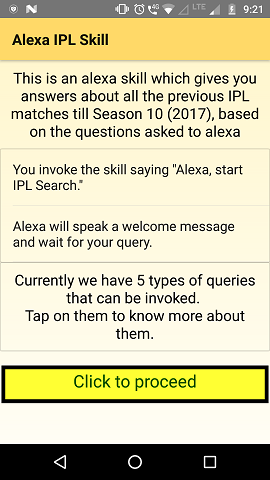
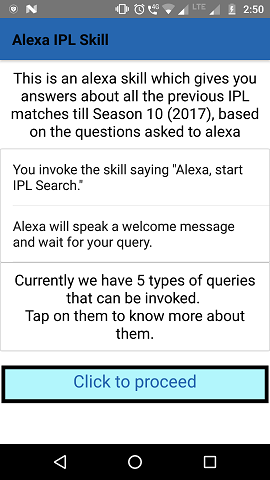
changed ui and some content

diff --git a/src/Components/Intents.js b/src/Components/Intents.js
@@ -8,10 +8,14 @@ import LinearGradient from 'react-native-linear-gradient';
 export default class Home extends Component {
     render() {
         return (
-            <LinearGradient colors={['#fff6ce', '#fffdf4']} style={{ flex: 1 }}>
+            <LinearGradient colors={['#fff', '#BAF6FB']} style={{ flex: 1 }}>
             <ScrollView>
                 <View style={styles.card}>
                     <List>
+                        <ListItem button style={styles.listItem} onPress={() => { Actions.Welcome(); }}>
+                            <Text style={styles.text}>Welcome</Text>
+                            <Icon name="ios-arrow-forward-outline" />
+                        </ListItem>
                         <ListItem button style={styles.listItem} onPress={() => { Actions.aboutIPL(); }}>
                             <Text style={styles.text}>About IPL</Text>
                             <Icon name="ios-arrow-forward-outline" />
@@ -20,16 +24,12 @@ export default class Home extends Component {
                             <Text style={styles.text}>Total Matches</Text>
                             <Icon name="ios-arrow-forward-outline" />
                         </ListItem>
-                        <ListItem button style={styles.listItem} onPress={() => { Actions.manOfMatch(); }}>
-                            <Text style={styles.text}>Man of the Match</Text>
+                        <ListItem button style={styles.listItem} onPress={() => { Actions.SeasonWinner(); }}>
+                            <Text style={styles.text}>Season Winner</Text>
                             <Icon name="ios-arrow-forward-outline" />
                         </ListItem>
-                        <ListItem button style={styles.listItem} onPress={() => { Actions.matchResult(); }}>
-                            <Text style={styles.text}>Match Result</Text>
-                            <Icon name="ios-arrow-forward-outline" />
-                        </ListItem>
-                        <ListItem button style={styles.listItem} onPress={() => { Actions.matchSummary(); }}>
-                            <Text style={styles.text}>Match Summary</Text>
+                        <ListItem button style={styles.listItem} onPress={() => { Actions.Exit(); }}>
+                            <Text style={styles.text}>Exit</Text>
                             <Icon name="ios-arrow-forward-outline" />
                         </ListItem>
                     </List>

diff --git a/src/Components/Exit.js b/src/Components/Exit.js
@@ -3,25 +3,31 @@ import { Text, View, ScrollView } from 'react-native';
 import { List, ListItem } from 'native-base';
 import LinearGradient from 'react-native-linear-gradient';
 
-export default class TotalMatches extends Component {
+export default class SeasonWinner extends Component {
     render() {
         return (
             <LinearGradient colors={['#fff', '#BAF6FB']} style={{ flex: 1 }}>
             <ScrollView>
                 <Text style={[styles.title]}>
-                    Alexa will give a count of the total number of matches played in the IPL until the 2017 season.
+                    Alexa will say a goodbye message and exit
                 </Text>
                 <View style={styles.card}>
                     <Text style={styles.title}>Sample invocation :- </Text>
                     <List>
                         <ListItem>
-                            <Text style={styles.text}>What is the total number of matches played ever in IPL"</Text>
+                            <Text style={styles.text}>bye</Text>
                         </ListItem>
                         <ListItem>
-                            <Text style={styles.text}>What is the total number of matches played ever in Indian Premier League</Text>
+                            <Text style={styles.text}>goodbye</Text>
                         </ListItem>
                         <ListItem>
-                            <Text style={styles.text}>How many matches played by teams in IPL</Text>
+                            <Text style={styles.text}>thanks</Text>
+                        </ListItem>
+                        <ListItem>
+                            <Text style={styles.text}>close alexa ipl skill</Text>
+                        </ListItem>
+                        <ListItem>
+                            <Text style={styles.text}>shutdown</Text>
                         </ListItem>
                     </List>
 

diff --git a/src/Components/SeasonWinner.js b/src/Components/SeasonWinner.js
@@ -3,25 +3,28 @@ import { Text, View, ScrollView } from 'react-native';
 import { List, ListItem } from 'native-base';
 import LinearGradient from 'react-native-linear-gradient';
 
-export default class TotalMatches extends Component {
+export default class Welcome extends Component {
     render() {
         return (
             <LinearGradient colors={['#fff', '#BAF6FB']} style={{ flex: 1 }}>
             <ScrollView>
                 <Text style={[styles.title]}>
-                    Alexa will give a count of the total number of matches played in the IPL until the 2017 season.
+                    Alexa will tell you the winner on the season you specify.
                 </Text>
                 <View style={styles.card}>
                     <Text style={styles.title}>Sample invocation :- </Text>
                     <List>
                         <ListItem>
-                            <Text style={styles.text}>What is the total number of matches played ever in IPL"</Text>
+                            <Text style={styles.text}>Who won IPL season 2017</Text>
                         </ListItem>
                         <ListItem>
-                            <Text style={styles.text}>What is the total number of matches played ever in Indian Premier League</Text>
+                            <Text style={styles.text}>Who was the winner of IPL season 2014</Text>
                         </ListItem>
                         <ListItem>
-                            <Text style={styles.text}>How many matches played by teams in IPL</Text>
+                            <Text style={styles.text}>Which team was crowned the winner in ipl season 2012</Text>
+                        </ListItem>
+                        <ListItem>
+                            <Text style={styles.text}>Which team lifted the trophy in ipl season 2013</Text>
                         </ListItem>
                     </List>
 

diff --git a/src/Router.js b/src/Router.js
@@ -3,23 +3,23 @@ import { Router, Scene } from 'react-native-router-flux';
 import Home from './Home';
 import TotalMatches from './Components/TotalMatches';
 import AboutIPL from './Components/AboutIPL';
-import MatchResult from './Components/MatchResult';
-import MatchSummary from './Components/MatchSummary';
-import ManOfMatch from './Components/ManOfMatch';
+import SeasonWinner from './Components/SeasonWinner';
+import Exit from './Components/Exit';
+import Welcome from './Components/Welcome';
 import Intents from './Components/Intents';
 
 const RouterComponent = () => {
     return (
       <Router>
         <Scene key="root" hideNavBar>
-            <Scene key="main" navigationBarStyle={{ backgroundColor: '#ffd968'}} backButtonTintColor='white' >
+            <Scene key="main" navigationBarStyle={{ backgroundColor: '#2666AF'}} backButtonTintColor='white' >
                 <Scene key="Home" component={Home} title="Alexa IPL Skill" initial />
                 <Scene key="intents" component={Intents} title="Intents" />
+                <Scene key="Welcome" component={Welcome} title="Welcome message" />
                 <Scene key="aboutIPL" component={AboutIPL} title="About IPL" />
                 <Scene key="totalMatches" component={TotalMatches} title="Total Matches" />
-                <Scene key="matchResult" component={MatchResult} title="Match Result" />
-                <Scene key="matchSummary" component={MatchSummary} title="Match Summary" />
-                <Scene key="manOfMatch" component={ManOfMatch} title="Man of the match" />
+                <Scene key="SeasonWinner" component={SeasonWinner} title="Season Winner" />
+                <Scene key="Exit" component={Exit} title="Exit message" />
             </Scene>
 
         </Scene>

diff --git a/src/Components/Welcome.js b/src/Components/Welcome.js
@@ -3,25 +3,25 @@ import { Text, View, ScrollView } from 'react-native';
 import { List, ListItem } from 'native-base';
 import LinearGradient from 'react-native-linear-gradient';
 
-export default class TotalMatches extends Component {
+export default class Exit extends Component {
     render() {
         return (
             <LinearGradient colors={['#fff', '#BAF6FB']} style={{ flex: 1 }}>
             <ScrollView>
                 <Text style={[styles.title]}>
-                    Alexa will give a count of the total number of matches played in the IPL until the 2017 season.
+                    Alexa will greet you with a welcome message.
                 </Text>
                 <View style={styles.card}>
                     <Text style={styles.title}>Sample invocation :- </Text>
                     <List>
                         <ListItem>
-                            <Text style={styles.text}>What is the total number of matches played ever in IPL"</Text>
+                            <Text style={styles.text}>Hi</Text>
                         </ListItem>
                         <ListItem>
-                            <Text style={styles.text}>What is the total number of matches played ever in Indian Premier League</Text>
+                            <Text style={styles.text}>Hello</Text>
                         </ListItem>
                         <ListItem>
-                            <Text style={styles.text}>How many matches played by teams in IPL</Text>
+                            <Text style={styles.text}>Say hello</Text>
                         </ListItem>
                     </List>
 

diff --git a/src/Components/AboutIPL.js b/src/Components/AboutIPL.js
@@ -6,7 +6,7 @@ import LinearGradient from 'react-native-linear-gradient';
 export default class AboutIPL extends Component {
     render() {
         return (
-            <LinearGradient colors={['#fff6ce', '#fffdf4']} style={{ flex: 1 }}>
+            <LinearGradient colors={['#fff', '#BAF6FB']} style={{ flex: 1 }}>
             <ScrollView>
                 <Text style={[styles.title]}>
                     Alexa will give a brief description about IPL.
@@ -15,13 +15,16 @@ export default class AboutIPL extends Component {
                     <Text style={styles.title}>Sample invocation :- </Text>
                     <List>
                         <ListItem>
-                            <Text style={styles.text}>Alexa, start ipl search, What is Indian Premier League"</Text>
+                            <Text style={styles.text}>What is Indian Premier League</Text>
                         </ListItem>
                         <ListItem>
-                            <Text style={styles.text}>Alexa, start ipl search, What is IPL</Text>
+                            <Text style={styles.text}>What is IPL</Text>
                         </ListItem>
                         <ListItem>
-                            <Text style={styles.text}>Alexa, start ipl search, What this skill is about</Text>
+                            <Text style={styles.text}>What is IPL about</Text>
+                        </ListItem>
+                        <ListItem>
+                            <Text style={styles.text}>What this skill is about</Text>
                         </ListItem>
                     </List>
 

diff --git a/src/Home.js b/src/Home.js
@@ -8,7 +8,7 @@ import LinearGradient from 'react-native-linear-gradient';
 export default class Home extends Component {
     render() {
         return (
-            <LinearGradient colors={['#fff6ce', '#fffdf4']} style={{ flex: 1 }}>
+            <LinearGradient colors={['#fff', '#fff']} style={{ flex: 1 }}>
             <ScrollView>
                 <Text style={[styles.title]}>This is an alexa skill which gives you answers about all the previous IPL matches till Season 10 (2017), based on the questions asked to alexa</Text>
                 <View style={styles.card}>
@@ -67,11 +67,11 @@ const styles = {
         elevation: 1,
         borderWidth: 5,
         height: 50,
-        backgroundColor: '#ffff33'
+        backgroundColor: '#B2F6FC'
     },
     buttonText: {
         textAlign: 'center',
-        color: '#004d00',
+        color: '#2666AF',
         fontSize: 23
     }
 };
